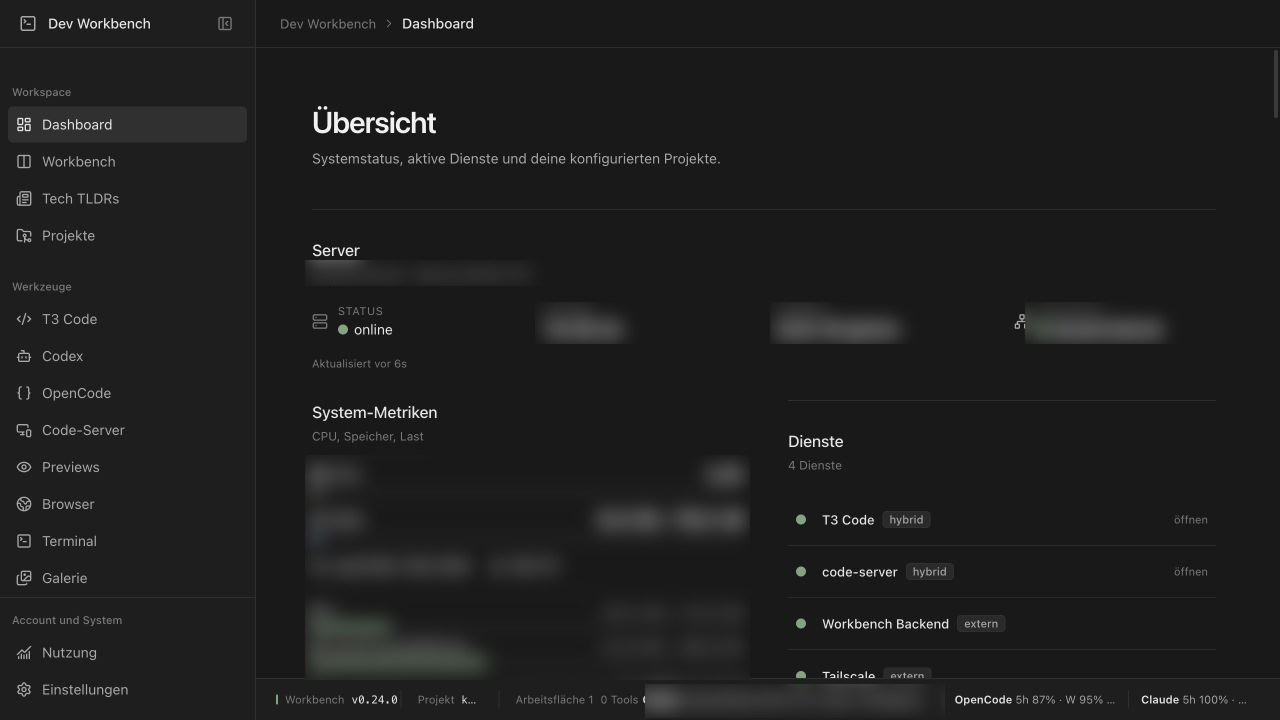
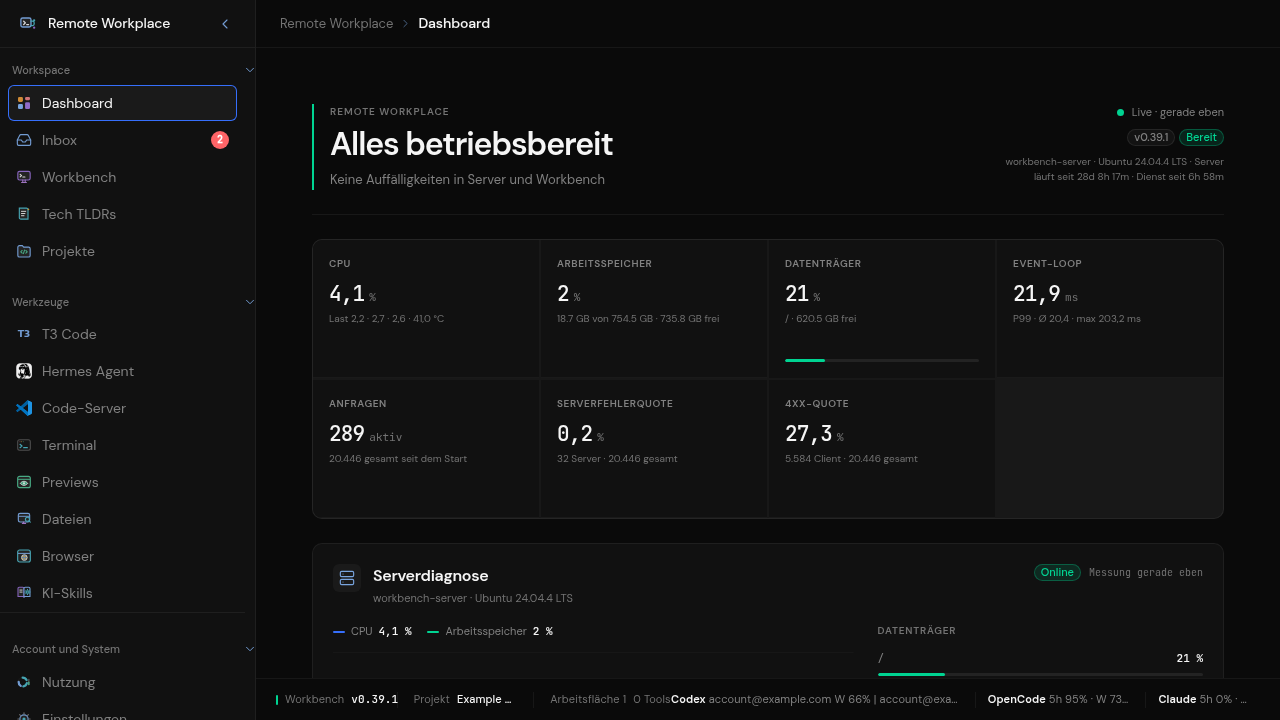
docs: screenshots auf aktuellen stand aktualisiert

diff --git a/README.md b/README.md
@@ -20,15 +20,15 @@ alles auf deinem eigenen Server, privat erreichbar über Tailscale.
 | ![Development Workbench im Infinite Canvas](docs/screenshots/02-workbench.png) | ![Tech TLDRs News Intelligence](docs/screenshots/03-tech-tldrs.png) |
 | Freier Orbit-Workspace mit Terminals, Agenten und Tools nebeneinander. | RSS-/HN-/YouTube-Feeds mit deutschen Zusammenfassungen und semantischer Suche. |
 
-| T3 Code | code-server Editor |
+| T3 Code | Code-Server Editor |
 |:--:|:--:|
-| ![T3 Code Agent](docs/screenshots/04-t3-code.png) | ![Eingebetteter code-server Editor](docs/screenshots/05-code-server.png) |
-| Agentengestützte Entwicklung direkt im Browser. | Vollwertiger VS-Code-Editor unter `/editor/`. |
+| ![T3 Code Agent](docs/screenshots/04-t3-code.png) | ![Code-Server Editor](docs/screenshots/05-code-server.png) |
+| Agentengestützte Entwicklung direkt im Browser. | Vollwertiger VS-Code-Editor im Browser. |
 
-| Medien- & Dateigalerie | Terminal |
+| Dateimanager | Terminal |
 |:--:|:--:|
-| ![Medien- und Dateigalerie](docs/screenshots/06-gallery.png) | ![Natives PTY-Terminal](docs/screenshots/07-terminal.png) |
-| Bento-Mediengalerie und Dateiablage – hoch- und herunterladen von jedem Gerät. | Native `node-pty`-/xterm.js-Terminals mit Reconnect und Verlauf. |
+| ![Dateimanager](docs/screenshots/06-gallery.png) | ![Natives PTY-Terminal](docs/screenshots/07-terminal.png) |
+| Finder-Dateimanager mit Verzeichnisbaum, Listenansicht und Dateiaktionen. | Native `node-pty`-/xterm.js-Terminals mit Reconnect und Verlauf. |
 
 | Nutzung & Limits | Einstellungen |
 |:--:|:--:|

diff --git a/docs/screenshots/README.md b/docs/screenshots/README.md
@@ -8,11 +8,13 @@ Die Haupt-README bindet die folgenden Bilder aus diesem Ordner ein (1280×720, P
 | `02-workbench.png` | Development Workbench im Infinite Canvas |
 | `03-tech-tldrs.png` | Tech TLDRs – News Intelligence |
 | `04-t3-code.png` | T3 Code Agent |
-| `05-code-server.png` | Eingebetteter code-server Editor |
-| `06-gallery.png` | Medien- & Dateigalerie |
+| `05-code-server.png` | Code-Server Editor |
+| `06-gallery.png` | Dateimanager mit Verzeichnisbaum und Dateiaktionen |
 | `07-terminal.png` | Natives PTY-Terminal |
 | `08-usage.png` | Nutzung & Limits |
 | `09-settings.png` | Einstellungen |
+| `10-hermes-chat.png` | Hermes Agent – Chat |
+| `11-hermes-system.png` | Hermes Agent – System |
 
 Hinweise:
 
@@ -20,3 +22,5 @@ Hinweise:
   Projektnamen, Tokens) unkenntlich gemacht.
 - PNG bevorzugen; auf ~1–2 MB pro Bild optimieren.
 - Gleiche Fenstergröße/Theme über alle Bilder hinweg wirkt am ruhigsten.
+- Die vorherigen Aufnahmen liegen zur Nachvollziehbarkeit unter
+  [`Aussehen_Früher`](../../Aussehen_Früher/).
